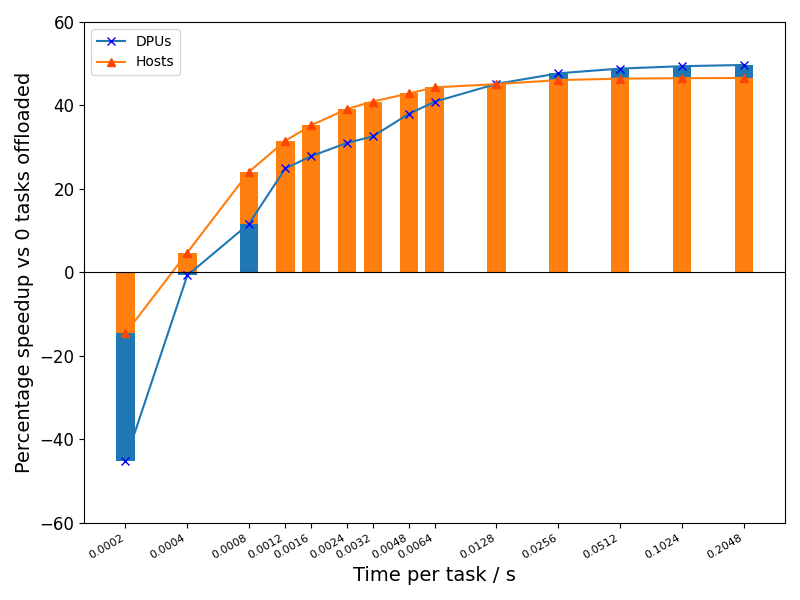
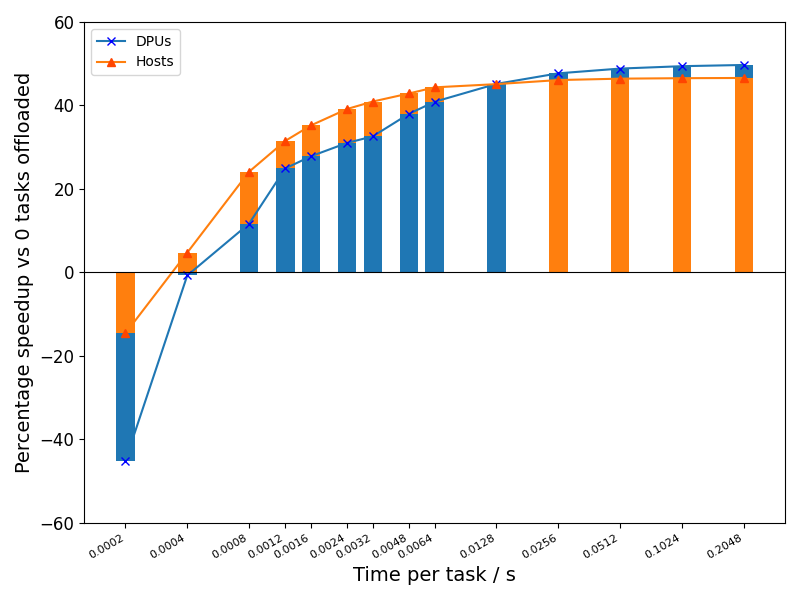
Everything prepped for the live Demo

Changed region(s): [[0.3438, 0.15, 0.5625, 0.45], [0.5938, 0.15, 0.6562, 0.45]]

diff --git a/Graphing-Code/graph_normal.py b/Graphing-Code/graph_normal.py
@@ -1,0 +1,64 @@
+import sys
+import numpy as np
+#import matplotlib as plt
+import matplotlib.pyplot as plt
+
+plt.rc("axes", titlesize=14)
+plt.rc("axes", labelsize=14)
+
+plt.rc("xtick", labelsize=12)
+plt.rc("ytick", labelsize=12)
+
+plt.gcf().set_size_inches(10, 8)
+
+#Change with varying enclave sizes.
+markers = ["x", "^", "o", "s", "d", "p"]
+filenames = ["./../data/baselinedata.txt", "./../data/demobfddata.txt"]
+
+for i in range(len(filenames)):
+    filename = filenames[i]
+    datafile = open(filename, 'r')
+    Lines = datafile.readlines()
+    stats = Lines[0].split()
+    num_tasks = int(stats[2])
+    task_size = int(stats[8])
+    time_per_task = float(stats[12])
+    tasks_per_enclave = int(stats[16])
+    offloaded_tasks = []
+    time = []
+    comms_time = []
+    for line in Lines[1:-1]:
+        templine = line.strip().split()
+        offloaded_tasks.append(int(templine[2]))
+        time.append(float(templine[4]))
+        comms_time.append(float(templine[7]))
+        #print(line.strip().split())
+
+    perc_tasks = [j*100/num_tasks for j in offloaded_tasks]
+    plt.semilogy(perc_tasks, time, marker=markers[i])
+
+peak_time = [time[0] * max(j, 100-j)/100 for j in perc_tasks]
+plt.semilogy(perc_tasks, peak_time, marker="*", base=2)
+
+import matplotlib.ticker as mticker
+from matplotlib.ticker import FuncFormatter
+
+plt.gca().yaxis.set_major_formatter(FuncFormatter(lambda y, _: '{:.16g}'.format(y)))
+#plt.tight_layout()
+
+#print("Num Tasks: ", num_tasks)
+#print("Task Size: " , task_size)
+#print("Time Per Task: ", time_per_task)
+#print("Tasks Per Enclave: ", tasks_per_enclave)
+
+
+#plt.plot(perc_tasks, peak_time, marker="x")
+plt.xlabel("Percentage of tasks offloaded")
+plt.ylabel("Time / s")
+
+plt.legend(["Baseline, 2 hosts", "Model with DPUs, 2 host + 2 DPU", "Theoretical peak"])
+
+#plt.title("Offloading " + str(num_tasks) + " tasks with size " + str(task_size) + \
+#" and "  + str(time_per_task) + "s per task, " + str(tasks_per_enclave) + " tasks \
+#per enclave", wrap=True)
+plt.savefig("./../plots/demograph.png")

diff --git a/scripts/runbatch.py b/scripts/runbatch.py
@@ -7,10 +7,10 @@ Ns = [0.0002, 0.0004, 0.0008, 0.0012, 0.0016, 0.0024, 0.0032, 0.0048, 0.0064, 0.
 for i in range(0, len(Ns)):
     if arch == "host":
         if model != "baseline":
-            command = "mpirun -n 4 -H b101,b102,b103,b104 ./singletaskhost "+ str(Ns[i]) + "> ./batchdata/task" + str(Ns[i]) + "fourcommcores.txt"
+            command = "mpirun -n 4 -H b101,b102,b103,b104 ./dpu-miniapphost "+ str(Ns[i]) + "> ./batchdata/task" + str(Ns[i]) + "fourcommcores.txt"
         else:
             command = "mpirun -n 2 -H b101,b102 ./baseline "+ str(Ns[i]) + "> ./batchdata/baseline" + str(Ns[i]) + "onecommcores.txt"
     else:
-        command = "mpirun -n 4 -H bluefield101,bluefield102,bluefield103,bluefield104 ./singletaskbfd "+ str(Ns[i]) + "> ./batchdata/bfdtask" + str(Ns[i]) + ".txt"
+        command = "mpirun -n 4 -H bluefield101,bluefield102,bluefield103,bluefield104 ./dpu-miniappbfd "+ str(Ns[i]) + "> ./batchdata/bfdtask" + str(Ns[i]) + ".txt"
     os.system(command)
     print("Done for: " + str(Ns[i]))

diff --git a/Task-Offload-Miniapp/baselinemodel.cpp b/Task-Offload-Miniapp/baselinemodel.cpp
@@ -31,9 +31,9 @@ int main(int argc, char **argv) {
 	const int repeats = 10;
 
 	const int num_cores = 64;
-	const int comm_cores = 1;
+	const int comm_cores = 16;
 
-	const double cpu_time_for_task = 0.0032;
+	const double cpu_time_for_task = 0.0128;
     double time_for_task = (cpu_time_for_task*tasks_bundled) / (num_cores - comm_cores);
 	double time_with_no_offload = (cpu_time_for_task*tasks_bundled) / num_cores;
     const int num_tasks = 512/tasks_bundled;

diff --git a/Task-Offload-Miniapp/dpu-miniapp.cpp b/Task-Offload-Miniapp/dpu-miniapp.cpp
@@ -33,7 +33,7 @@ int main(int argc, char **argv) {
 	const int num_cores = 64;
 	const int comm_cores = 0;
 
-	const double cpu_time_for_task = 0.0032;
+	const double cpu_time_for_task = 0.0128;
     double time_for_task = (cpu_time_for_task*tasks_bundled) / (num_cores - comm_cores);
 	double time_with_no_offload = (cpu_time_for_task*tasks_bundled) / num_cores;
     const int num_tasks = 512/tasks_bundled;

diff --git a/Graphing-Code/graph_latency.py b/Graphing-Code/graph_latency.py
@@ -65,4 +65,4 @@ plt.legend(["2 Host Baseline", "4 Bluefields model", "4 Hosts model"])
 plt.tight_layout()
 
 #plt.title("Latency of moving messages of size n back and forth between two worker nodes via two communication nodes pt2pt", wrap=True)
-plt.savefig("./../plots/" + reduced_filename + ".png")
+plt.savefig(reduced_filename + ".png")

diff --git a/Graphing-Code/graph_batchruns.py b/Graphing-Code/graph_batchruns.py
@@ -99,4 +99,4 @@ plt.tight_layout()
 
 plt.legend(["DPUs", "Hosts"])
 
-plt.savefig("./../plots/hostspeedups.png")
+plt.savefig("./../plots/demospeedups.png")
